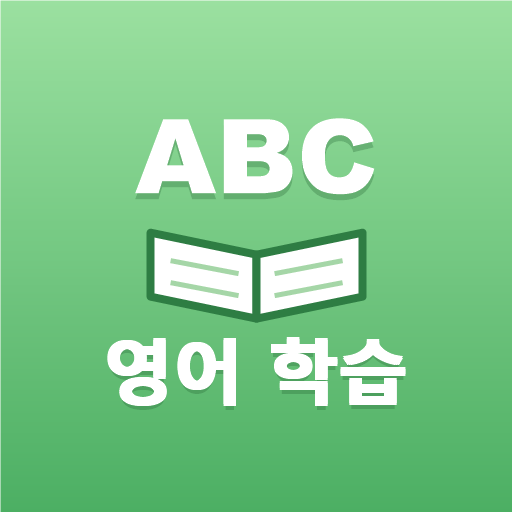
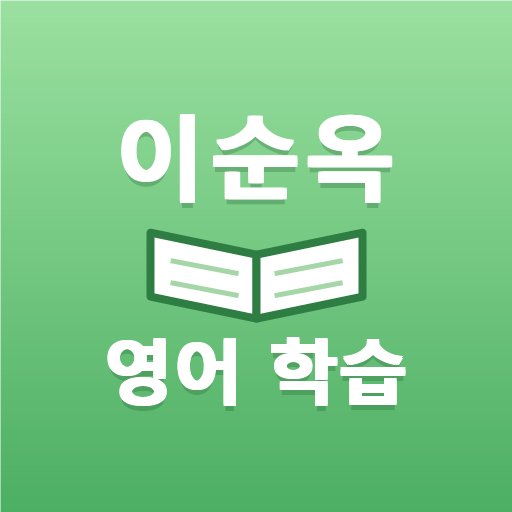
V1.3: 앱 아이콘을 '이순옥 영어 학습'으로 변경

Changed region(s): [[0.2188, 0.2188, 0.7812, 0.4062]]

diff --git a/version.js b/version.js
@@ -1,3 +1,3 @@
 // 앱 버전 (여기 한 곳만 고치면 화면 표시와 오프라인 저장이 함께 바뀝니다)
 // 규칙: 작은 수정 1.0 → 1.0.1 / 기능·화면 변경 1.0 → 1.1 / 큰 개편 → 2.0
-self.APP_VERSION = "1.2";
+self.APP_VERSION = "1.3";

diff --git a/CHANGELOG.md b/CHANGELOG.md
@@ -7,6 +7,10 @@
 
 버전 번호는 `version.js` 한 곳에서만 바꿉니다. 바꾸면 앱 상단 표시와 오프라인 저장이 함께 갱신됩니다.
 
+## V1.3 (2026-11-21)
+
+- 앱 아이콘 변경: "ABC · 책 · 영어 학습" → "이순옥 · 책 · 영어 학습"
+
 ## V1.2 (2026-11-21)
 
 - 단어 연습을 시작하면 첫 단어의 영어 소리가 자동으로 나오고, 카드를 넘길 때마다 그 단어 소리를 자동 재생
